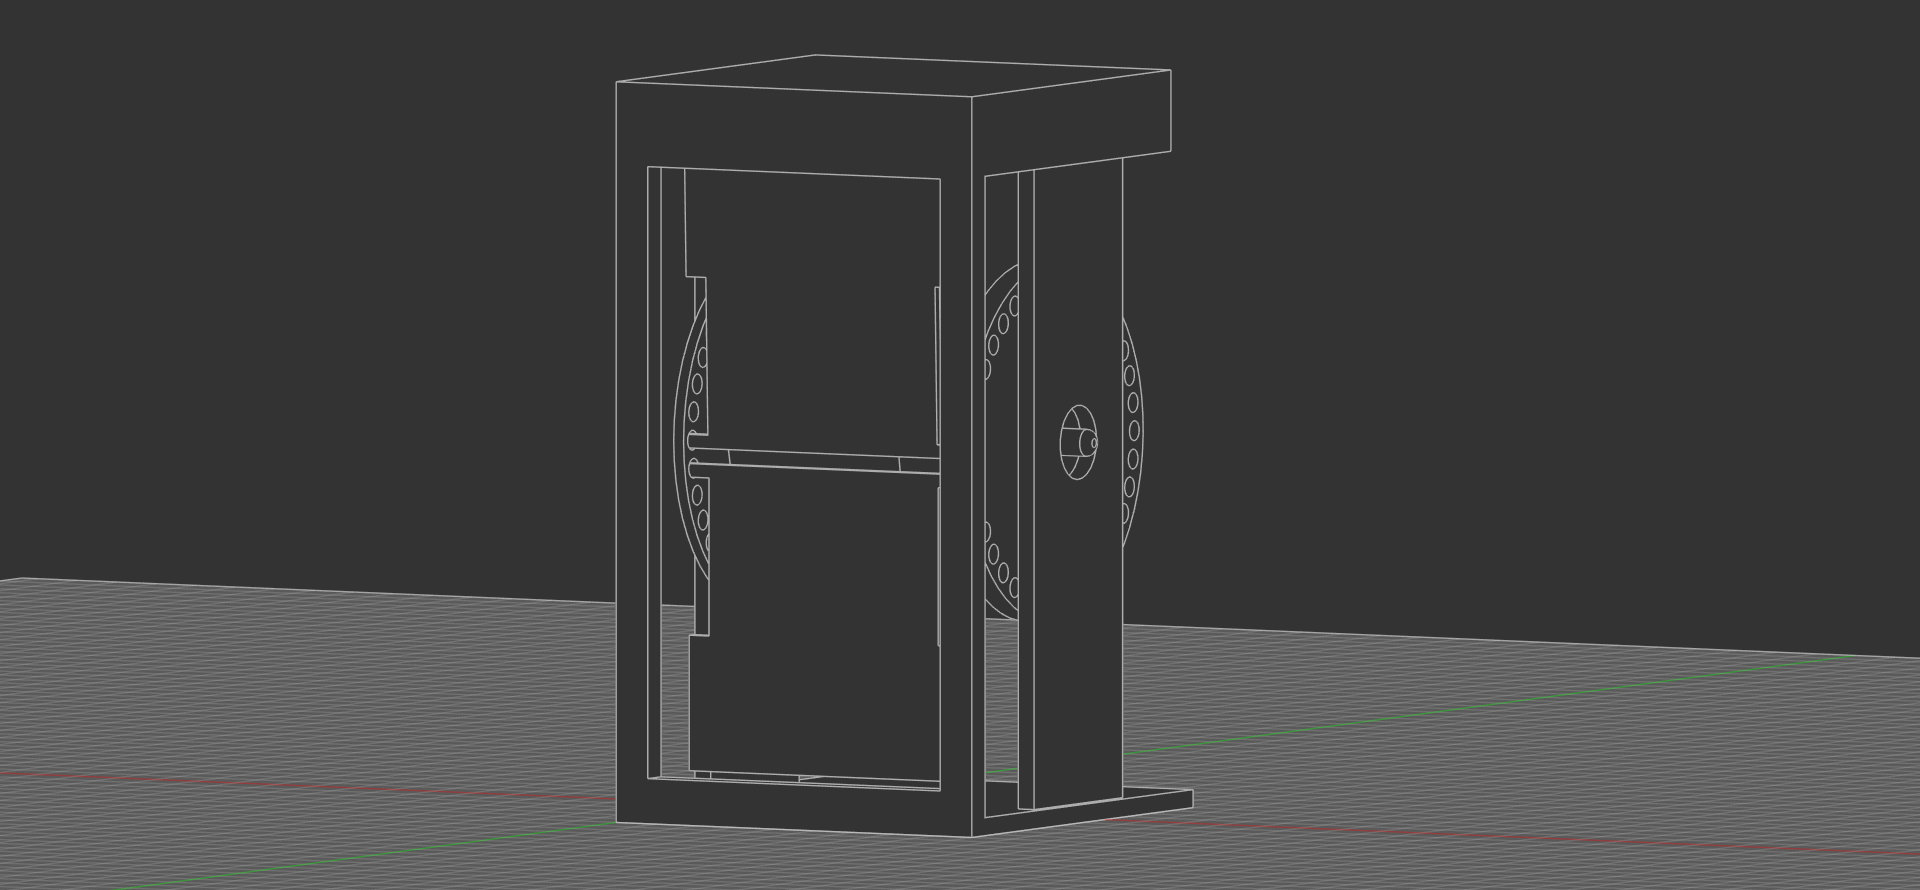
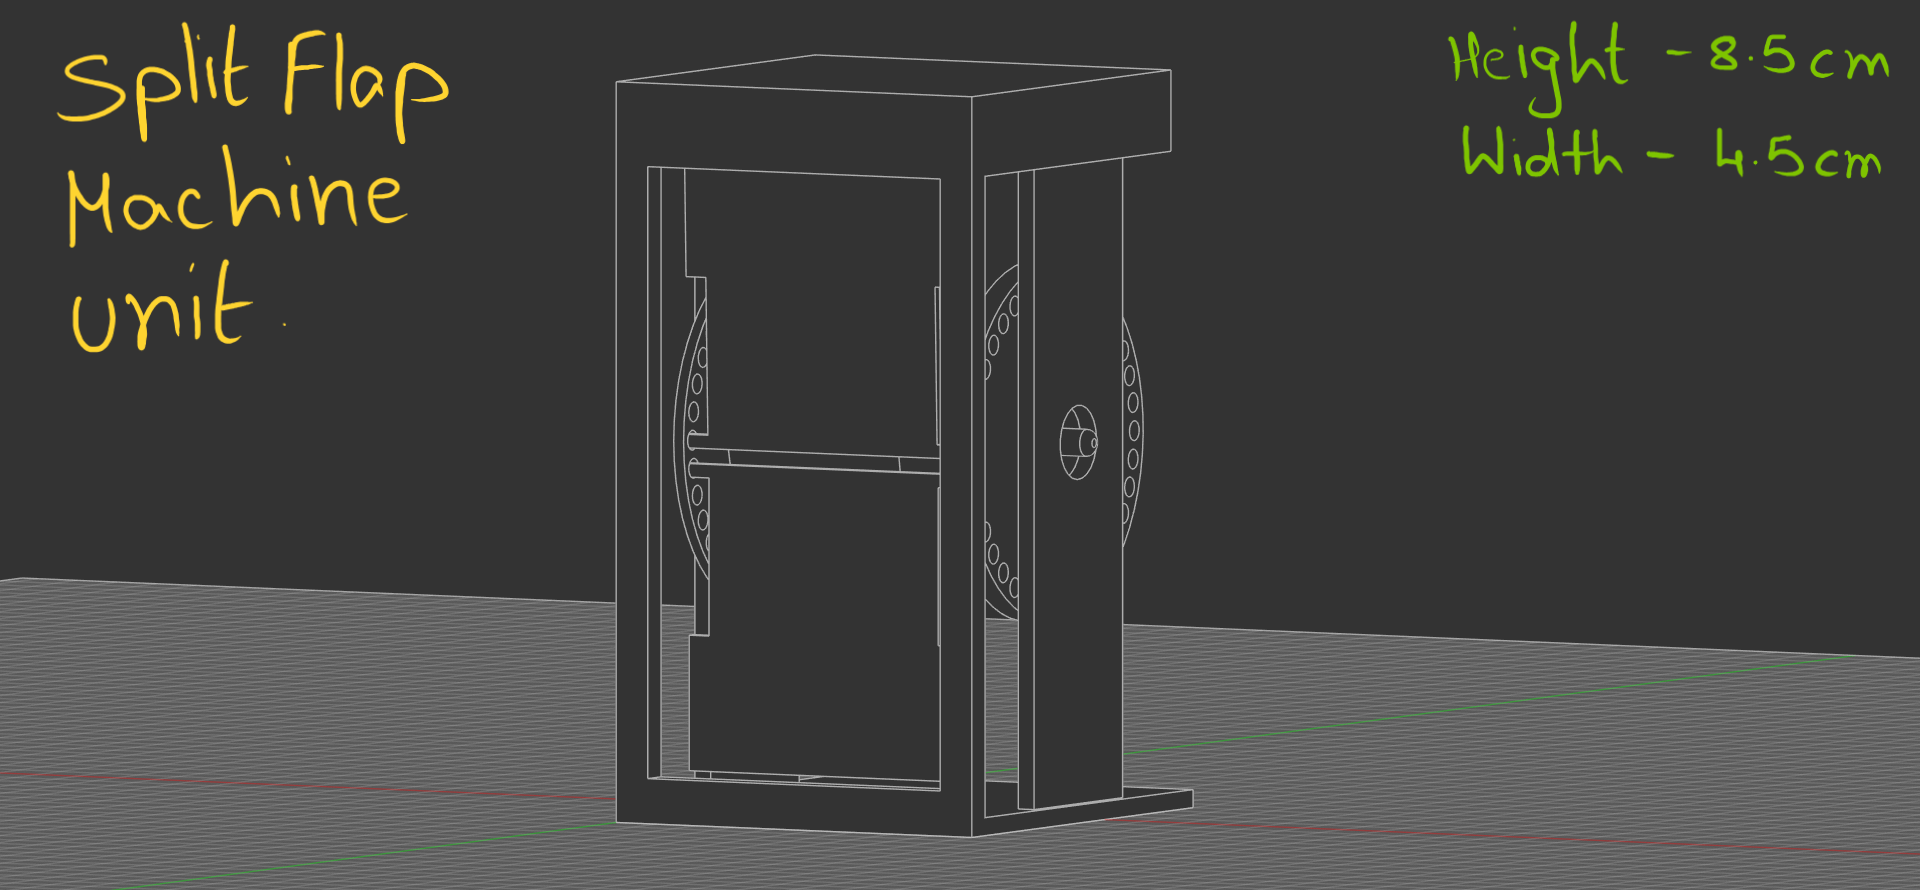
Day 2

diff --git a/TIMELINE.md b/TIMELINE.md
@@ -41,3 +41,12 @@ And we got some changes, Since The older spool design with 40 holder was TOO EXP
 
 Here you can see the spool stand attacher, ensuring that it can rotate freely without disorientating.
 
+Welp, its 2am and I've made some changes. 
+The spool stand attacher will work however for smooth rotation I have decided to use ball bearings of 3x8x4mm. I had to do multiple revisions and changes for the somewhat final SFM unit.
+firstly I added a cavity for ball bearing as mentioned. Next I made the height of the SFM unit around 8.5cm and also had to add an offset slab which stops the top flap from falling down unless turned 10 degress. (See the image)
+and next I updated the overall look of the Stand it looks more boxier and it was the design I was going for.
+
+![1.5 hrs of work](images/Full_SFM.png)
+
+![another one](images/Full_SFM_F.png)
+
